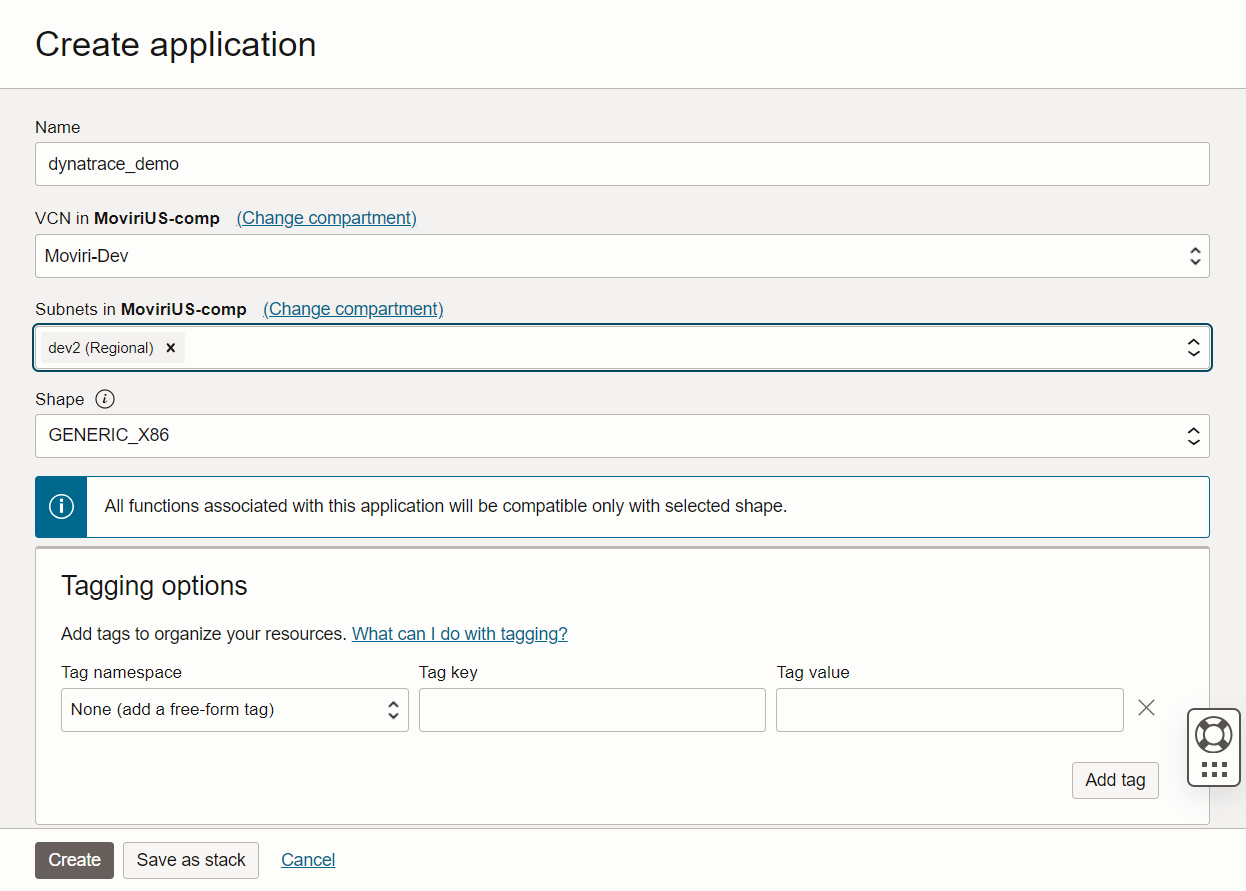
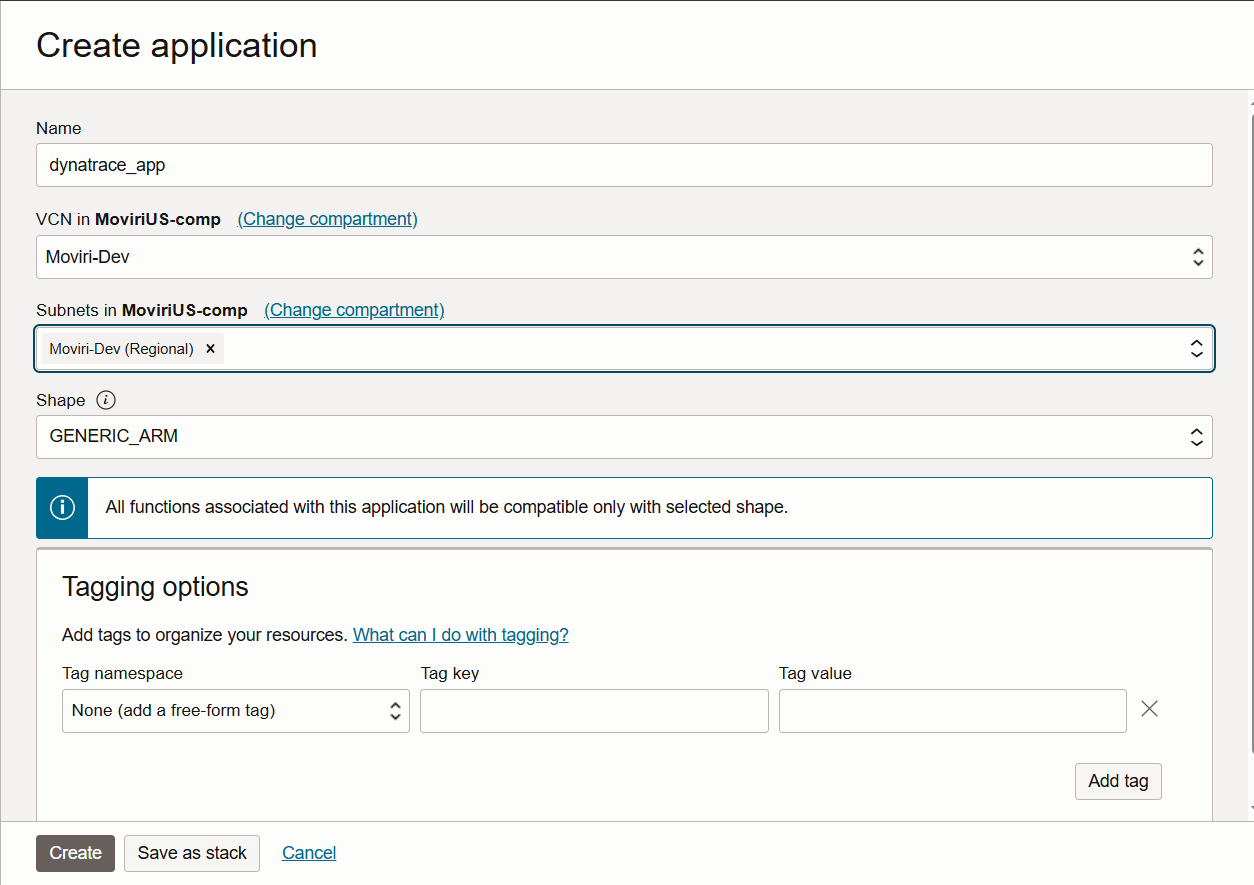
update documentation

diff --git a/README.md b/README.md
@@ -1,14 +1,17 @@
 
 ## Setup the Application & OCI Function
 1. Login to the OCI portal and navigate to **Applications** and click on 'Create Application'. 
-2. Enter a name for the application and select a subnet then click on 'Create'
+2. Enter a name for the application and select a subnet for this application. Change the **Shape** to *GENERIC_ARM* then click on 'Create'
 ![alt text](images/image.png)
 3. Once the application is created you will be rediected to the **Getting started** page. Launch the cloud shell and follow the instructions under **Setup fn CLI on Cloud Shell**.
 ![alt text](images/image-1.png)
 4. In the cloud shell clone the OCI Function from this github repository and enter the directory.
 ![alt text](images/image-2.png)
-5. Edit the `func.yaml` file using your preferred text editor (`vim` or `nano`) and set the value of  `DYNATRACE_API_KEY` to an API token that has the `metrics.ingest` scope and set the value of `DYNATRACE_TENANT` to your Dynatrace tenant URL. 
-![alt text](images/image-10.png)
+5. Edit the `func.yaml` file using your preferred text editor (`vim` or `nano`) and set the value of `DYNATRACE_TENANT` to your Dynatrace tenant URL. If you're using new Dynatrace then the you may need to replace 'apps' with 'live' in the tenant URL.  
+Ex: `https://<tenant id>.apps.dynatrace.com` should be `https://<tenant id>.live.dyntrace.com`
+    - If you're using token based authentication, set the  value of  `DYNATRACE_API_KEY` to an API token that has the `metrics.ingest` scope.
+    - If you're using an OAuth2 Client for authentication change the `AUTH_METHOD` to `oauth` and enter your client_id, client_secret and URN. Please see the "Configuring an OAuth2 Client" section for more details on the requirements.
+![alt text](images/image-13.png)
     - Set the configuration option `IMPORT_ALL_METRICS` if you want to import metrics from a namespace that is not supported by the OCI extension. These metrics will not have metadata associated with them.
 6. Save and exit the text editor. Now deploy the function using the command `fn -v deploy --app <application name>`
 ![alt text](images/image-3.png)
@@ -24,9 +27,35 @@ If the deployment succeeded then you should see the image in your OCI container 
 ![alt text](images/image-7.png)
 4. Scroll past **Configure task** and choose the compartment, application and function that you just created in the previous setps.
 ![alt text](images/image-8.png)
-5. Finally click 'Create'
-6. Verify the metrics are getting ingested into Dynatrace.
+5. If you see a warning asking if you want to create a policy in a given compartment, you *must* click **Create**
+![alt text](images/image-14.png)
+6. Finally click 'Create'
+![alt text](images/image-15.png)
+7. Verify the metrics are getting ingested into Dynatrace.
 ![alt text](images/image-9.png)
+
+## Configuring an OAuth2 Client
+Using an OAuth2 client for the OCI functions will require you to add some additional policies to give the oauth token access to ingest metrics.
+
+1. Visit your Dynatrace tenant's **Account Management** portal and navigate to **Identity & access management** -> **Policy Management**. Click on the add policy button.
+![alt text](images/oauth/image.png)
+2. Give the policy a name like **Metric Ingest** and paste the following policy statement into the large text box `ALLOW storage:metrics:write;` and click on **Save**
+![alt text](images/oauth/image-1.png)
+3. Now navigate to the **Service Users** page under **Identity & access management** and click on **Add service user**
+![alt text](images/oauth/image-2.png)
+4. Give the user a name and optionally a description then click on **Save**
+![alt text](images/oauth/image-3.png)
+5. Click on the 3 vertical dots on the right side of the page and select **View Service User**
+![alt text](images/oauth/image-4.png)
+6. Copy the **Service user email** that is displayed on this page, you will need it for step 9.
+7. Click on the **+Permission** button and from the dropdown menu select the policy we created in step 2.
+![alt text](images/oauth/image-5.png)
+8. Under **Identity & access management** navigate to **OAuth clients** and click on **Create Client**
+![alt text](images/oauth/image-6.png)
+9. Paste the service user email address that you copied in setp 6 in the **Subject user email** text box then assign the user **Write metrics** (`storage:metrics:write`) permission.
+![alt text](images/oauth/image-7.png)
+![alt text](images/oauth/image-8.png)
+10. Finally click on **Create Client** at the bottom of the page and copy the `client_id`, `client_secret` and `urn` for use with the OCI function.  
 
 ## Debugging 
 If you are running into issues getting the connector to work, go to the application and enable **Function Invocation Logs**.
